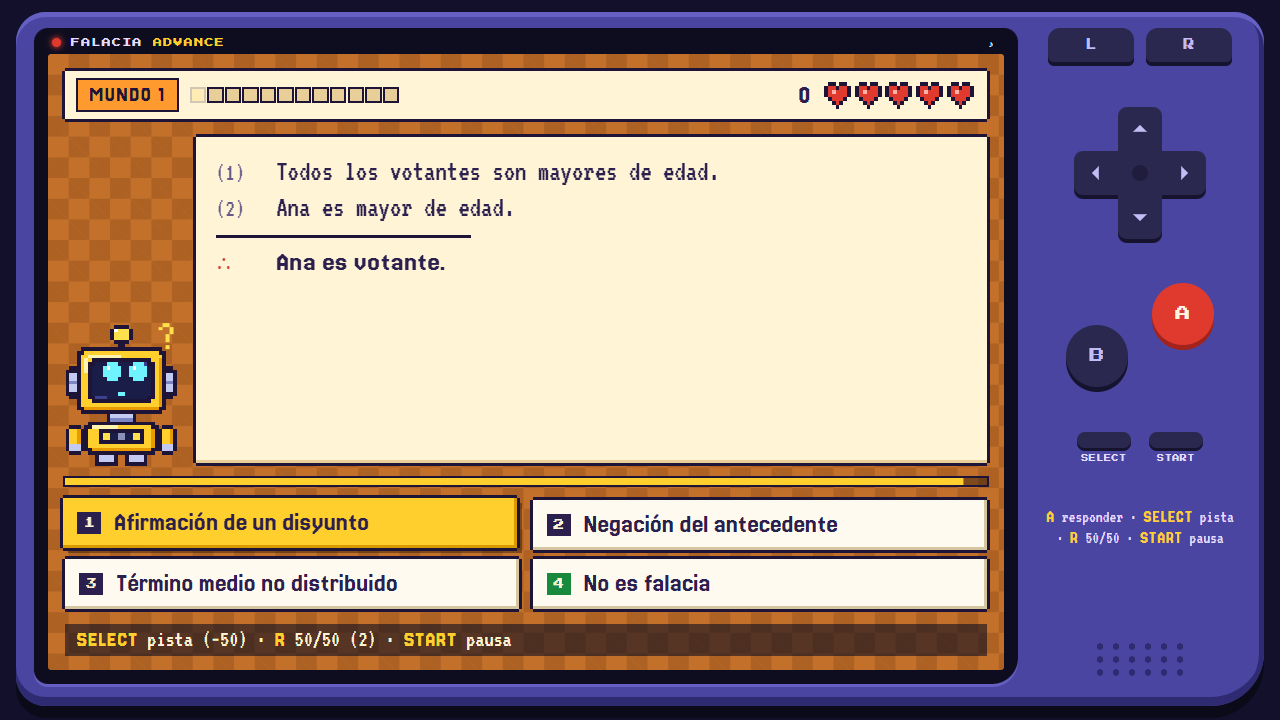
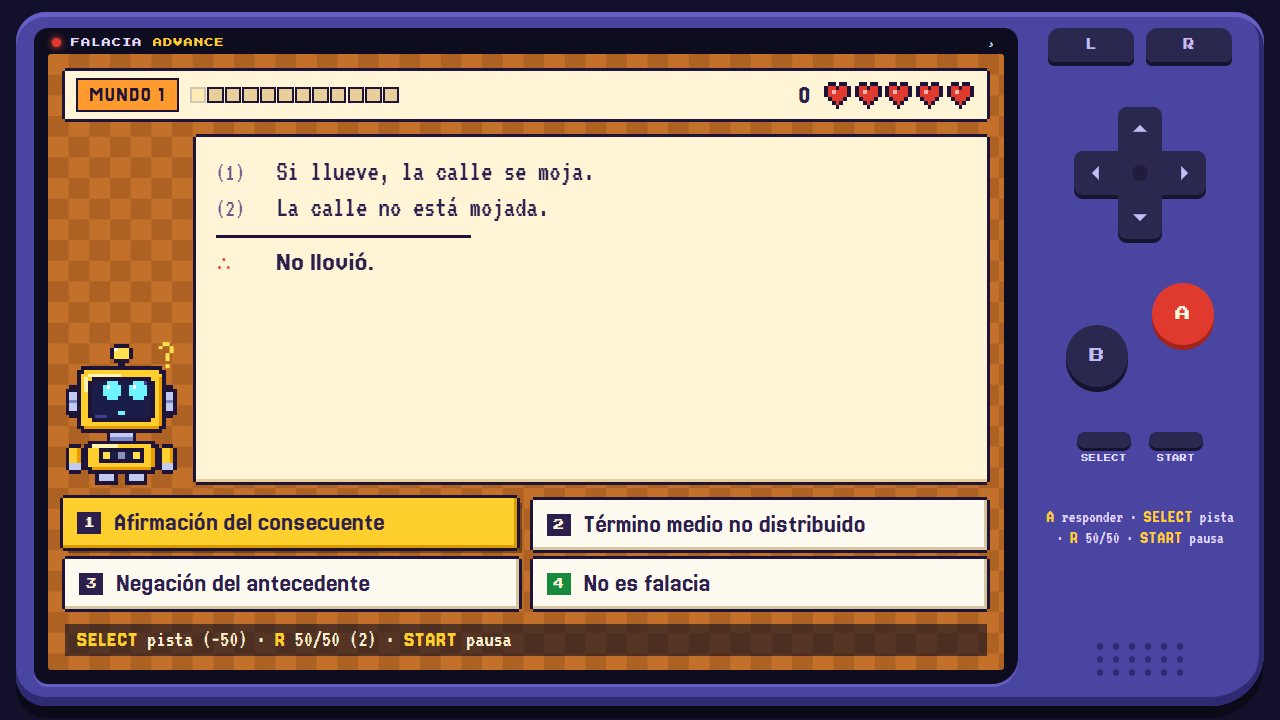
Quita el tiempo de los ejercicios
Las preguntas ya no tienen la barra de rapidez ni su bonus: se responden sin apuro.

diff --git a/index.html b/index.html
@@ -284,10 +284,6 @@ i.h { visibility: hidden; }
 .foe.hit .boss { animation: shake .3s steps(4) 2; filter: brightness(1.8); }
 .hp { align-self: stretch; height: .42em; margin: 0 var(--b) var(--b); background: rgba(0, 0, 0, .45); box-shadow: 0 0 0 2px var(--line); }
 .hp i { display: block; height: 100%; background: var(--pri); }
-.bonus { flex: none; height: .28em; margin: 0 var(--b); background: rgba(0, 0, 0, .35); box-shadow: 0 0 0 2px var(--line); }
-.bonus i { display: block; width: 100%; height: 100%; background: var(--hi); transform-origin: left; }
-.bonus.run i { animation: drain 15s linear forwards; }
-@keyframes drain { to { transform: scaleX(0); } }
 .opts { display: grid; grid-template-columns: 1fr 1fr; gap: .12em .3em; flex: none; }
 .narrow .opts { grid-template-columns: 1fr; }
 .tip { flex: none; margin: 0 var(--b); padding: .16em .5em; min-height: 1.4em; background: rgba(14, 13, 31, .6); color: var(--cream); font-size: .88em; }
@@ -2001,7 +1997,7 @@ function mkOpts(q) {
 }
 function ask() {
   run.cur = run.queue[run.i];
-  go('quiz', { opts: mkOpts(run.cur), typing: true, hinted: false, fifty: false, cut: [], elapsed: 0 });
+  go('quiz', { opts: mkOpts(run.cur), typing: true, hinted: false, fifty: false, cut: [] });
 }
 function hud() {
   const r = run;
@@ -2016,7 +2012,6 @@ R.quiz = () => {
   return `${hud()}
   <div class="qrow"><div class="who">${SP.robot('neutral', 'talk')}</div>
     <div class="panel arg scroll" id="arg">${q.ctx ? `<div class="ctx">${q.ctx}</div>` : ''}${argHTML(q.t)}</div>${foe()}</div>
-  <div class="bonus" id="bonus"><i></i></div>
   <div class="opts" id="opts" style="visibility:hidden">${V.opts.map((k, i) => `<div class="opt${k === 'ok' ? ' okopt' : ''}${V.cut.includes(i) ? ' cut' : ''}" data-i="${i}"><kbd>${i + 1}</kbd><span>${k === 'ok' ? 'No es falacia' : FAL[k].n}</span></div>`).join('')}</div>
   <div class="tip" id="tip">${tipText()}</div>`;
 };
@@ -2032,10 +2027,8 @@ AFTER.quiz = () => {
 };
 function finishType() {
   V.typing = false; V.n = V.opts.length;
-  const o = $('#opts'), b = $('#bonus');
+  const o = $('#opts');
   if (o) o.style.visibility = 'visible';
-  if (b) { b.firstElementChild.style.animationDelay = (-V.elapsed / 1000) + 's'; b.classList.add('run'); }
-  V.t0 = performance.now() - V.elapsed;
   if (V.cut.includes(V.idx)) V.idx = V.opts.findIndex((_, i) => !V.cut.includes(i));
   setBot(quizMood());
   hl();
@@ -2054,7 +2047,6 @@ function quizDir(b) {
   nav(b);
 }
 function pause() {
-  V.elapsed = V.typing ? 0 : performance.now() - V.t0;
   AU.sfx.ok();
   const prev = V;
   go('pause', { prev });
@@ -2091,7 +2083,7 @@ function checkAch() {
   if (S.t.ok >= 5) award('primo');
 }
 function answer() {
-  const q = run.cur, pick = V.opts[V.idx], ok = pick === q.k, el = performance.now() - V.t0;
+  const q = run.cur, pick = V.opts[V.idx], ok = pick === q.k;
   const s = S.qs[q.id] || [0, 0];
   s[ok ? 0 : 1]++; S.qs[q.id] = s; S.seen[q.k] = 1;
   let isNew = false, gain = 0;
@@ -2100,8 +2092,8 @@ function answer() {
     if (!S.caught[q.k]) { S.caught[q.k] = 1; isNew = true; run.newc++; }
     run.right++; run.streak++; run.best = Math.max(run.best, run.streak);
     S.t.right++; if (q.k === 'ok') S.t.ok++; S.t.streak = Math.max(S.t.streak, run.streak);
-    /* 100 de base, menos las ayudas, más racha y rapidez */
-    gain = 100 - (V.hinted ? 50 : 0) - (V.fifty ? 30 : 0) + Math.min(run.streak - 1, 5) * 10 + Math.round(30 * Math.max(0, 1 - el / 15000) / 5) * 5;
+    /* 100 de base, menos las ayudas, más la racha; sin límite ni premio de tiempo */
+    gain = 100 - (V.hinted ? 50 : 0) - (V.fifty ? 30 : 0) + Math.min(run.streak - 1, 5) * 10;
     run.score += gain; addXP(gain);
     if (run.mode === 'boss') run.hp--;
     checkAch();
@@ -2112,7 +2104,6 @@ function answer() {
   save();
   const els = SEL(), dead = run.hearts <= 0, chosen = els[V.idx];
   els.forEach((e, i) => { e.classList.remove('sel'); if (V.opts[i] === q.k) e.classList.add('right'); else if (i === V.idx) e.classList.add('wrong'); });
-  $('#bonus').classList.remove('run');
   $('#hearts').innerHTML = hearts(run.hearts, run.max);
   const mood = dead ? 'dizzy' : !ok ? 'sad' : isNew ? 'love' : run.streak >= 3 ? 'cool' : 'happy';
   setBot(mood);
@@ -2434,7 +2425,7 @@ LEG.opciones = () => [['◂ ▸', 'ajustar'], ['A', 'elegir'], ['B', 'volver']];
 R.help = () => `<div class="hud"><span class="chip">AYUDA</span><span class="ttl">Cómo jugar</span></div>
   <div class="panel scroll grow">
     <div class="sec"><b>OBJETIVO</b>Lee el argumento y elige qué falacia comete. Si es un argumento legítimo, elige <u>No es falacia</u>.</div>
-    <div class="sec"><b>PUNTOS</b>100 por acierto, más bonus por racha y por rapidez (la barra amarilla). La pista cuesta 50 y el 50/50 cuesta 30.</div>
+    <div class="sec"><b>PUNTOS</b>100 por acierto, más bonus por racha. La pista cuesta 50 y el 50/50 cuesta 30. No hay límite de tiempo: piensa cada respuesta con calma.</div>
     <div class="sec"><b>VIDAS</b>Cada error cuesta una vida, pero te explica por qué falla y cuál es su «primo legítimo». Lo que falles vuelve una vez al final.</div>
     <div class="sec"><b>TECLADO</b>Flechas: mover · Z o Intro: A · X o Esc: B · A y S: L y R · Retroceso: SELECT (pista) · P: START (pausa) · 1 a 4: responder · M: silenciar</div>
     <div class="sec"><b>LO IMPORTANTE</b>Una falacia es un problema de <u>apoyo</u>, no de conclusión. El objetivo no es acusar mucho: es acusar bien.</div>

diff --git a/sw.js b/sw.js
@@ -1,6 +1,6 @@
 /* Falacia Advance — service worker: deja la app guardada en el teléfono para jugar sin conexión. */
 const PREFIX = 'falacia-advance-';
-const CACHE = PREFIX + 'e4d49bc605';
+const CACHE = PREFIX + 'c1e4f9bb3f';
 const SHELL = ['./', 'index.html', 'manifest.webmanifest', 'icons/icon-192.png', 'icons/icon-512.png', 'icons/maskable-512.png', 'icons/apple-touch-icon.png'];
 self.addEventListener('install', e => {
   e.waitUntil(caches.open(CACHE).then(c => c.addAll(SHELL)).then(() => self.skipWaiting()));
